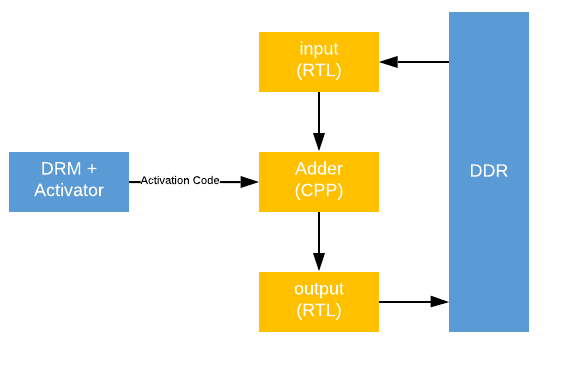
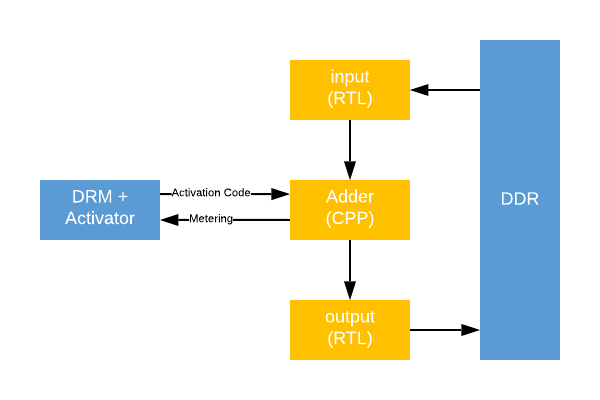
Xilinx Vitis - HLS Kernel -Added Metering Support

Changed region(s): [[0.0, 0.0294, 0.9326, 0.9118]]

diff --git a/Hardware/Xilinx_Vitis/02_hls_kernel/rtl_adder_pipes_c/app/main.cpp b/Hardware/Xilinx_Vitis/02_hls_kernel/rtl_adder_pipes_c/app/main.cpp
@@ -41,7 +41,8 @@ Description: SDx Vector Addition using Blocking Pipes Operation
       exit(EXIT_FAILURE);                                           \
     } 
 
-#define DATA_SIZE 4096
+#define LOOP 10
+#define DATA_SIZE 256
 #define INCR_VALUE 10
 #define DRM_BASE_ADDRESS 0x1800000
 
@@ -114,6 +115,35 @@ int32_t drm_write_callback(uint32_t addr, uint32_t value)
 
 
 /**
+ * run_app()
+ */
+void run_app(   cl::CommandQueue & q, cl::Kernel & krnl_adder_stage, cl::Kernel & krnl_input_stage, cl::Kernel & krnl_output_stage,
+        cl::Buffer & buffer_input, cl::Buffer & buffer_output,
+        uint32_t* source_hw_results)
+{
+    cl_int err;
+     
+    //Copy input data to device global memory
+    cl::Event write_event;
+    OCL_CHECK(err, err = q.enqueueMigrateMemObjects({buffer_input},0,NULL,&write_event));
+
+    //Launch the Kernel
+    std::vector<cl::Event> eventVec;
+    eventVec.push_back(write_event);
+    OCL_CHECK(err, err = q.enqueueTask(krnl_input_stage, &eventVec));
+    OCL_CHECK(err, err = q.enqueueTask(krnl_adder_stage, &eventVec));
+    OCL_CHECK(err, err = q.enqueueTask(krnl_output_stage, &eventVec));
+
+    //wait for all kernels to finish their operations
+    OCL_CHECK(err, err = q.finish());
+
+    //Copy Result from Device Global Memory to Host Local Memory
+    OCL_CHECK(err, err = q.enqueueMigrateMemObjects({buffer_output},CL_MIGRATE_MEM_OBJECT_HOST));
+    OCL_CHECK(err, err = q.finish());
+
+}
+
+/**
  * Entry point
  */
 int main(int argc, char** argv)
@@ -128,15 +158,15 @@ int main(int argc, char** argv)
     //Allocate Memory in Host Memory
     size_t vector_size_bytes = sizeof(int) * DATA_SIZE;
 
-   int source_input     [DATA_SIZE];
-   int source_hw_results[DATA_SIZE];
-   int source_sw_results[DATA_SIZE];
+    uint32_t source_input     [DATA_SIZE];
+    uint32_t source_hw_results[DATA_SIZE];
+    uint32_t source_sw_results[DATA_SIZE];
 
     // Create the test data and Software Result 
     for(int i = 0 ; i < DATA_SIZE ; i++){
         source_input[i] = i;
-        source_sw_results[i] = i + INCR_VALUE;
         source_hw_results[i] = 0;
+        source_sw_results[i] = i + INCR_VALUE;
     }
 
 //OPENCL HOST CODE AREA START
@@ -212,24 +242,23 @@ int main(int argc, char** argv)
     OCL_CHECK(err, err = krnl_output_stage.setArg(0,buffer_output));
     OCL_CHECK(err, err = krnl_output_stage.setArg(1,size));
 
-    //Copy input data to device global memory
-    cl::Event write_event;
-    OCL_CHECK(err, err = q.enqueueMigrateMemObjects({buffer_input},0/* 0 means from host*/,NULL,&write_event));
-
-    //Launch the Kernel
-    std::vector<cl::Event> eventVec;
-    eventVec.push_back(write_event);
-    OCL_CHECK(err, err = q.enqueueTask(krnl_input_stage, &eventVec));
-    OCL_CHECK(err, err = q.enqueueTask(krnl_adder_stage, &eventVec));
-    OCL_CHECK(err, err = q.enqueueTask(krnl_output_stage, &eventVec));
-
-    //wait for all kernels to finish their operations
-    OCL_CHECK(err, err = q.finish());
-
-    //Copy Result from Device Global Memory to Host Local Memory
-    OCL_CHECK(err, err = q.enqueueMigrateMemObjects({buffer_output},CL_MIGRATE_MEM_OBJECT_HOST));
-    OCL_CHECK(err, err = q.finish());
-
+    
+    // App Loop
+    int match = 0;
+    for(uint32_t i=0; i<LOOP; i++) {
+        std::cout << "Running RTL Adder Pipes LOOP " << (i+1) << std::endl;
+        run_app(q, krnl_adder_stage, krnl_input_stage, krnl_output_stage, buffer_input, buffer_output, source_hw_results);
+        
+        // Compare the results of the Device to the simulation
+        for (int i = 0 ; i < DATA_SIZE ; i++){
+            if (source_hw_results[i] != source_sw_results[i]){
+                std::cout << "Error: Result mismatch" << std::endl;
+                std::cout << "i = " << i << " CPU result = " << source_sw_results[i]
+                    << " Device result = " << source_hw_results[i] << std::endl;
+                match = 1;  
+            }
+        }
+    }
 //OPENCL HOST CODE AREA END
 
 //ACCELIZE DRMLIB CODE AREA START
@@ -239,18 +268,6 @@ int main(int argc, char** argv)
 
     // Release xclhal2 board handler
     xclClose(boardHandler);
-    
-    // Compare the results of the Device to the simulation
-    int match = 0;
-    for (int i = 0 ; i < DATA_SIZE ; i++){
-        if (source_hw_results[i] != source_sw_results[i]){
-            std::cout << "Error: Result mismatch" << std::endl;
-            std::cout << "i = " << i << " CPU result = " << source_sw_results[i]
-                << " Device result = " << source_hw_results[i] << std::endl;
-            match = 1;
-            break;
-        }
-    }
 
     delete[] fileBuf;
 

diff --git a/Hardware/Xilinx_Vitis/02_hls_kernel/rtl_adder_pipes_c/src/adder.cpp b/Hardware/Xilinx_Vitis/02_hls_kernel/rtl_adder_pipes_c/src/adder.cpp
@@ -13,7 +13,8 @@ void adder(  int inc,
              hls::stream<datap> &activation_code0,
              hls::stream<datap> &activation_code1,
              hls::stream<datap> &activation_code2,
-             hls::stream<datap> &activation_code3)
+             hls::stream<datap> &activation_code3,
+             hls::stream<datap> &metering_event)
 {
 #pragma HLS interface axis port=in
 #pragma HLS interface axis port=out
@@ -21,6 +22,7 @@ void adder(  int inc,
 #pragma HLS interface axis port=activation_code1
 #pragma HLS interface axis port=activation_code2
 #pragma HLS interface axis port=activation_code3
+#pragma HLS interface axis port=metering_event
 #pragma HLS interface s_axilite port=inc bundle=control
 #pragma HLS interface s_axilite port=size bundle=control
 #pragma HLS interface s_axilite port=return bundle=control     
@@ -30,26 +32,43 @@ void adder(  int inc,
     unsigned int expected_ac1      = 0x6C304A2F;
     unsigned int expected_ac0      = 0x18DB0CE0;
     
-    for(int i=0; i <size ; i++) {
-        
-        // Read source Data
-        datap temp_src = in.read();
-        datap temp_ac0 = activation_code0.read();
-        datap temp_ac1 = activation_code1.read();
-        datap temp_ac2 = activation_code2.read();
-        datap temp_ac3 = activation_code3.read();
-        
-        // Check Activation Code
-        if( (temp_ac0.data==expected_ac0) && 
-            (temp_ac1.data==expected_ac1) && 
-            (temp_ac2.data==expected_ac2) && 
-            (temp_ac3.data==expected_ac3))
-          temp_src.data = temp_src.data + inc;
-        else
-            temp_src.data = 0;
-
-        // Stream Write
-        out.write(temp_src);
+    datap temp_metering;
+    temp_metering.data;
+    
+    // Read latest Activation Code Value
+    datap temp_ac0 = activation_code0.read();
+    datap temp_ac1 = activation_code1.read();
+    datap temp_ac2 = activation_code2.read();
+    datap temp_ac3 = activation_code3.read();
+    
+    // Check Activation Code Value
+    int temp_inc;
+    if( (temp_ac0.data==expected_ac0) && 
+        (temp_ac1.data==expected_ac1) && 
+        (temp_ac2.data==expected_ac2) && 
+        (temp_ac3.data==expected_ac3)) {
+          temp_inc = inc;
+          temp_metering.data=1;
     }
+    else {
+        temp_inc = 0;
+        temp_metering.data=0;
+    }
+
+    for(int i=0; i <size ; i++) {
+
+        // Read input data
+        datap temp_in = in.read();
+
+        // Add INC value
+        temp_in.data = temp_in.data + temp_inc;
+        
+        // Write output data
+        out.write(temp_in);
+        
+    }
+    
+    // Increment metering counter
+    metering_event.write(temp_metering);
 }
 }
